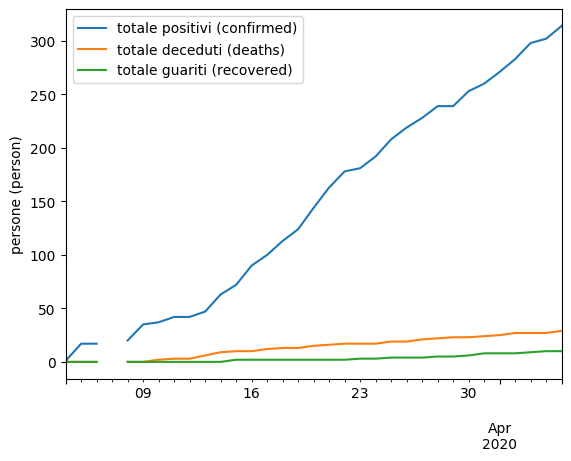
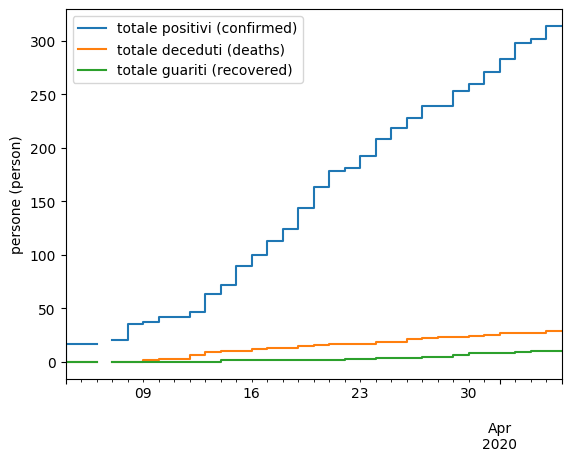
Change the style of cumulative plot

diff --git a/COVID-19/analysis.py b/COVID-19/analysis.py
@@ -22,7 +22,7 @@ df['dead'] = df['delta_death_from_yesterday'].cumsum()
 
 fig, ax2 = plt.subplots(1)
 df2 = df[['positive','dead','total_recovered']]
-df2.plot(ax=ax2)
+df2.plot(drawstyle="steps",ax=ax2)
 ax2.set_xlabel('')
 ax2.set_ylabel('persone (person)')
 # translation according to https://github.com/pomber/covid19
